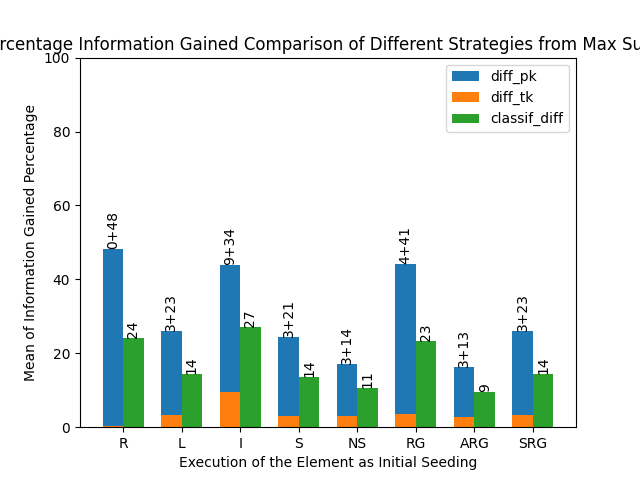
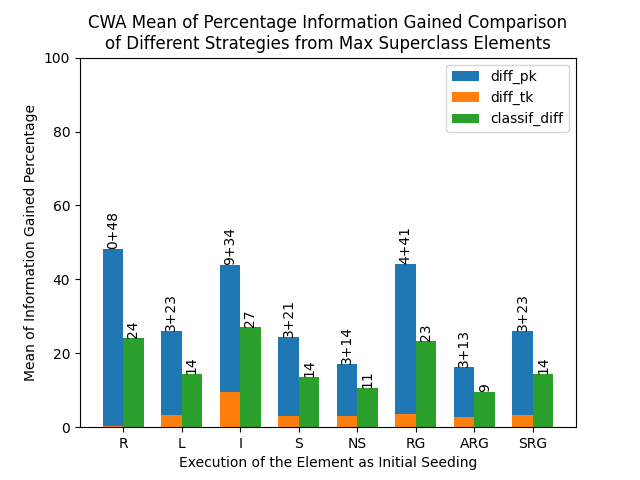
fixed the graph titles not fitting the space given for it

Changed region(s): [[0.0, 0.0312, 1.0, 0.125]]

diff --git a/src/Grapher.py b/src/Grapher.py
@@ -66,21 +66,21 @@ def generate_graph_name(sub_super_strategy, min_max_strategy, check_complete):
     graph_name = ''
     match sub_super_strategy:
         case 'NONE':
-            graph_name = 'Mean of Percentage Information Gained Comparison of Different Strategies'
+            graph_name = 'Mean of Percentage Information Gained Comparison\nof Different Strategies'
         case 'SUPERCLASS':
             if min_max_strategy == 'MAX':
-                graph_name = 'Mean of Percentage Information Gained Comparison of Different Strategies from Max Superclass Elements'
+                graph_name = 'Mean of Percentage Information Gained Comparison\nof Different Strategies from Max Superclass Elements'
             else:
-                graph_name = 'Mean of Percentage Information Gained Comparison of Different Strategies from Min Superclass Elements'
+                graph_name = 'Mean of Percentage Information Gained Comparison\nof Different Strategies from Min Superclass Elements'
         case 'SUBCLASS':
             if min_max_strategy == 'MAX':
-                graph_name = 'Mean of Percentage Information Gained Comparison of Different Strategies from Max Subclass Elements'
+                graph_name = 'Mean of Percentage Information Gained Comparison\nof Different Strategies from Max Subclass Elements'
             else:
-                graph_name = 'Mean of Percentage Information Gained Comparison of Different Strategies from Min Subclass Elements'
+                graph_name = 'Mean of Percentage Information Gained Comparison\nof Different Strategies from Min Subclass Elements'
     if check_complete:
-        graph_name = 'CWA_' + graph_name
+        graph_name = 'CWA ' + graph_name
     else:
-        graph_name = 'OWA_' + graph_name
+        graph_name = 'OWA ' + graph_name
     return graph_name
 
 

diff --git a/src/FileReader.py b/src/FileReader.py
@@ -12,7 +12,7 @@ directory_path = os.path.realpath(r"C:\Users\ttuga\Desktop\Research_Project\Soft
 # TODO LATER MAKE SURE TO GET THE COMPLETENESS AS AN ARGUMENT
 #  OR PUT THE WHOLE THING IN A FOR LOOP TO RUN THEM BOTH AT THE SAME TIME
 # can change whether to run CWA or OWA from this variable
-check_complete = True
+check_complete = False
 
 # true for only the combined graph, false for only the regular graph, none for both
 # TODO MAKE THE PART OF BEING ABLE TO RUN BOTH AT THE SAME TIME
